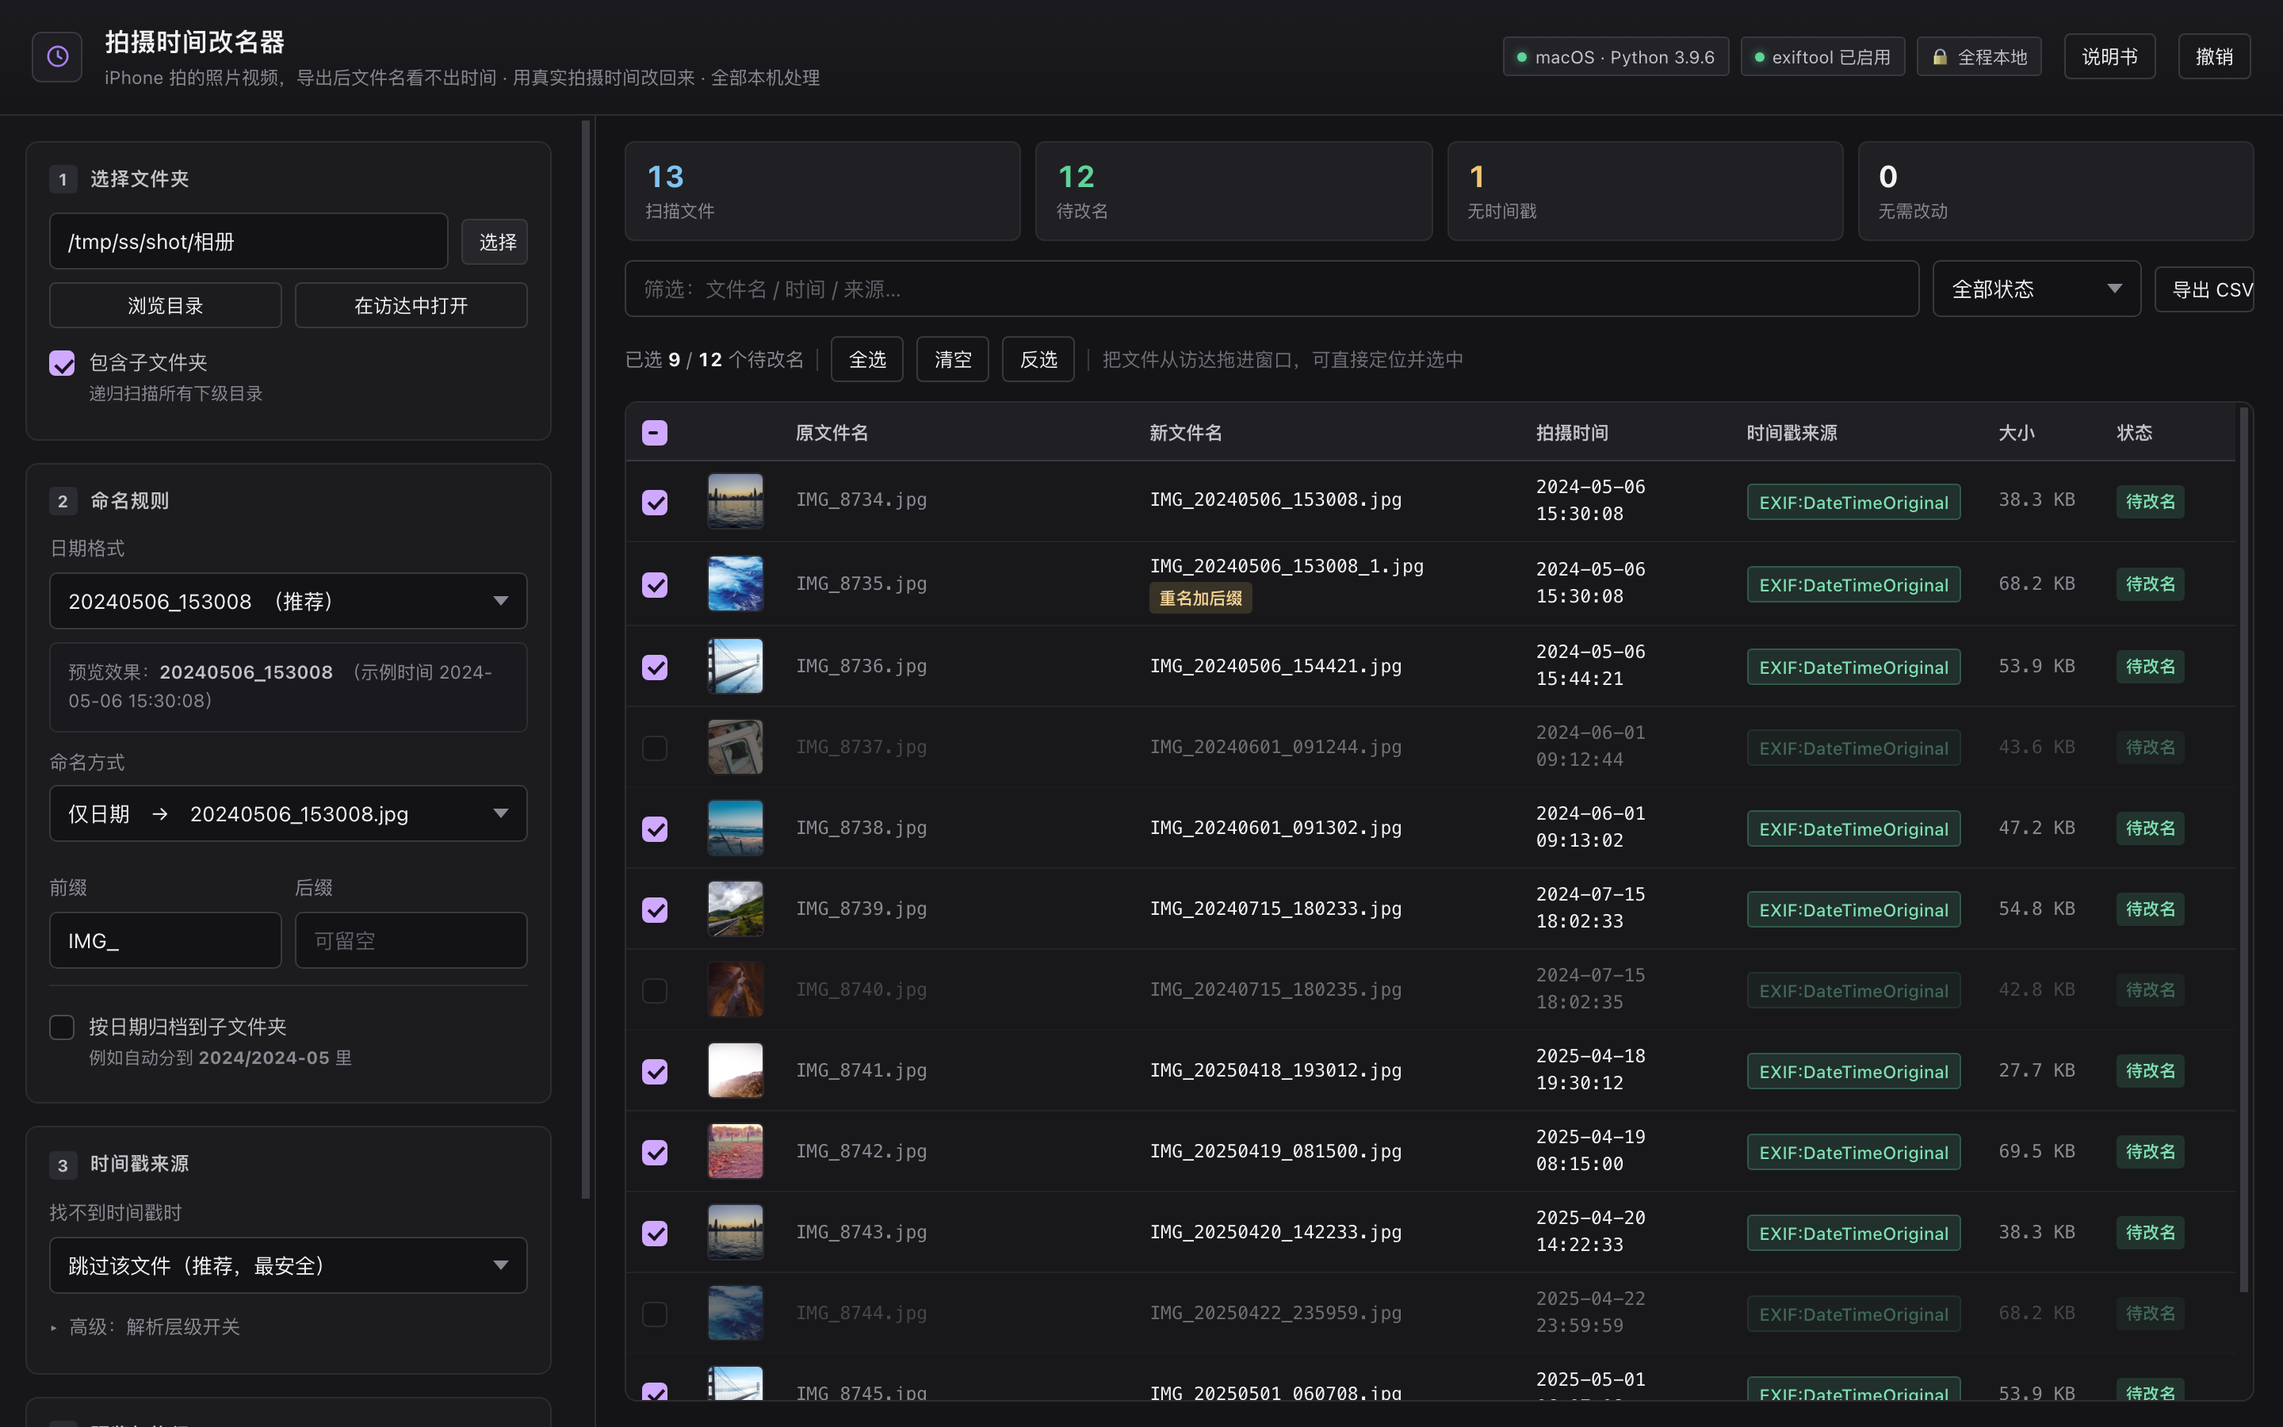
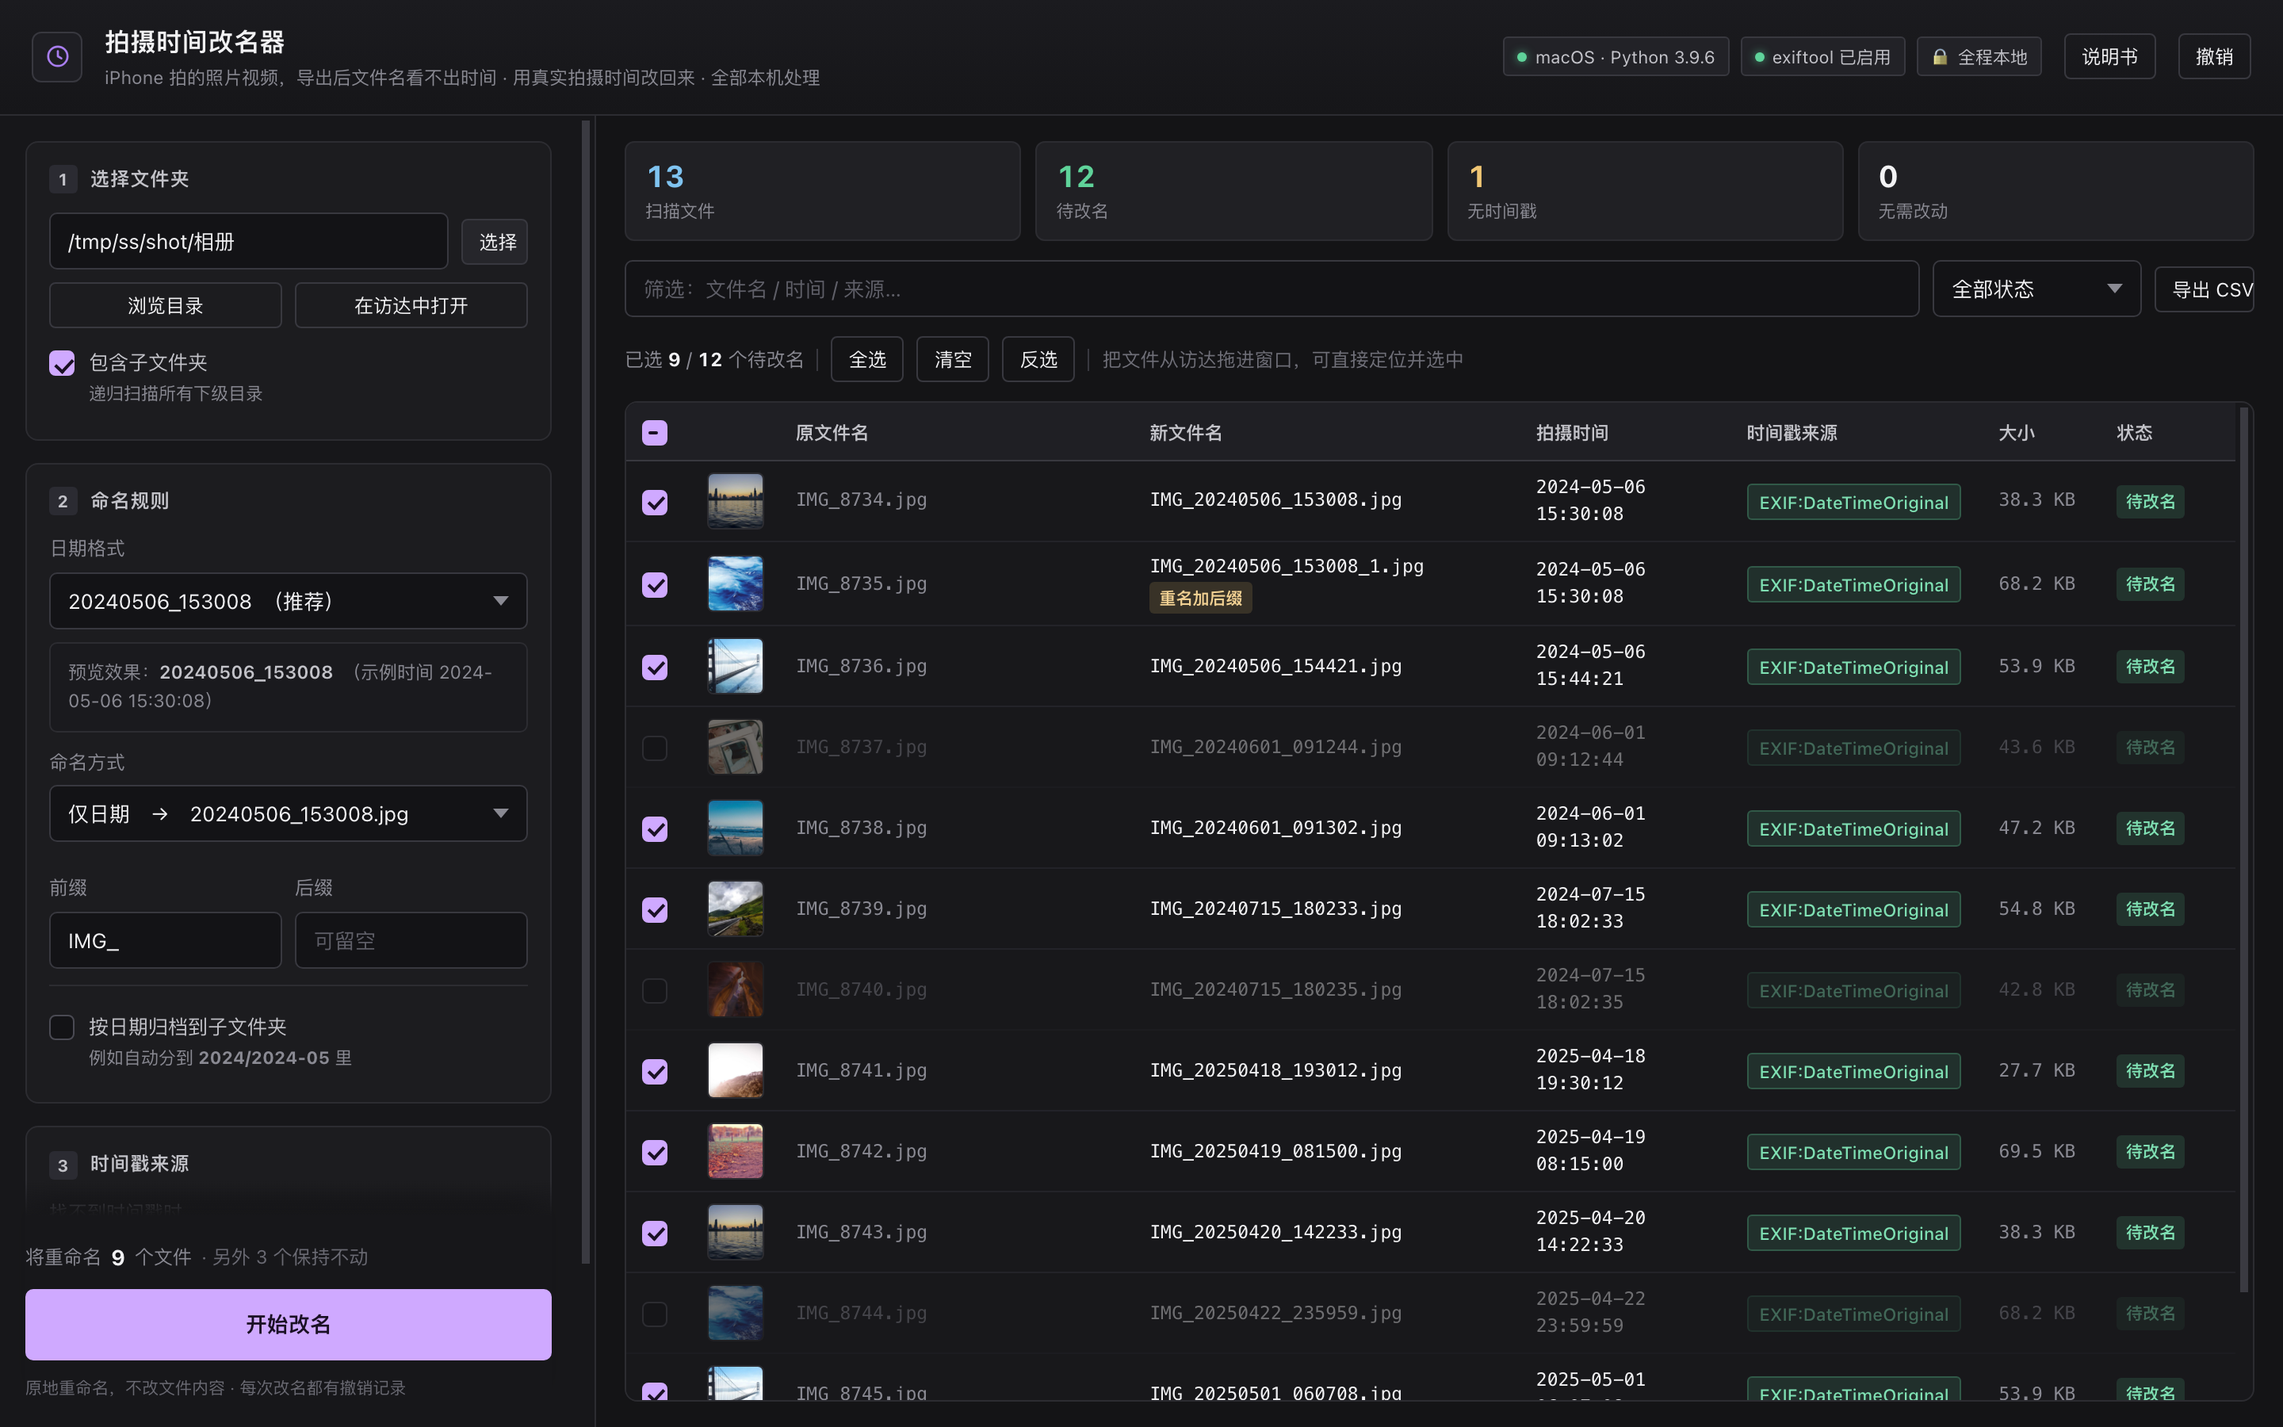
v1.2.1 · 执行区贴底固定 + macOS 改 dmg 分发
界面
- 「开始改名」原来在第 4 张卡里，配置项一多就得往下滚才找得到；
  改成贴住左栏底部的固定条，滚到哪儿都在
- 固定条上写「将重命名 N 个文件 · 另外 M 个保持不动」，不用回头看表格
- 上方 22px 渐变过渡，不用横线把卡片切成两截

打包
- build_app.command 增加 dmg 产出：App + 指向 /Applications 的软链 + 首次打开说明，
  UDZO 压缩后ad-hoc 签名。双击挂载、拖一下就装好，比解压 zip 顺手
- CI 的 macOS 岗位改为直接调用打包脚本，不再另抄一份 PyInstaller 参数。
  上一版就是因为两份逻辑漂移：本地修了 Info.plist 版本号，CI 那份没跟着改，
  发出去的 .app 在「显示简介」里还是 0.0.0
- Release 同时提供 dmg / zip，dmg 为主

其它
- VERSION 1.2.1；README（中英）/ RELEASE_NOTES / CHANGELOG 同步
- CI 步骤名里的自检数量 49 → 55
- README 主图重拍（底部固定条 + 9/12 选中态）

Changed region(s): [[0.0, 0.84, 0.25, 0.9956], [0.25, 0.84, 0.2812, 0.8711]]

diff --git a/src/static/index.html b/src/static/index.html
@@ -78,6 +78,28 @@ main{flex:1;display:grid;grid-template-columns:376px 1fr;overflow:hidden}
 aside{border-right:1px solid var(--line);overflow-y:auto;padding:16px;display:flex;flex-direction:column;gap:14px;background:#17171a}
 section.stage{display:flex;flex-direction:column;overflow:hidden;padding:16px 18px;gap:12px}
 
+/* 执行区：贴住左栏底部，滚到任何位置都看得见。
+   以前它在第 4 张卡里，配着配着就滚出视野了，得往回找。 */
+.dock{
+  position:sticky;bottom:-16px;margin:auto 0 -16px;
+  padding:16px 0 16px;background:#17171a;z-index:6;
+  /* 不用 border-top：一条横线会把下面的卡片切成两截，看着像坏了。
+     上面留一段背景色渐隐 + 阴影，滚动时自然浮起。 */
+  box-shadow:0 -16px 16px -12px rgba(0,0,0,.75);
+}
+/* 上方 22px 渐变，让滚上来的卡片内容是「渐隐消失」而不是被一刀切断 */
+.dock::before{
+  content:"";position:absolute;left:0;right:0;top:-22px;height:22px;pointer-events:none;
+  background:linear-gradient(180deg, rgba(23,23,26,0), #17171a);
+}
+.dock-info{font-size:12px;color:var(--fg3);margin-bottom:9px;
+  display:flex;align-items:center;gap:6px;font-variant-numeric:tabular-nums}
+.dock-info b{color:var(--fg);font-size:13.5px}
+.dock-info.warn{color:#f0c674}
+.dock .btnbar{display:flex;gap:8px}
+.dock .btnbar .primary{flex:1}
+.dock-note{font-size:10.5px;color:#6a6a73;margin-top:9px;line-height:1.6}
+
 .card{background:var(--panel);border:1px solid var(--line);border-radius:var(--radius);padding:14px}
 .card>h2{font-size:12px;font-weight:700;color:var(--fg2);letter-spacing:.6px;margin-bottom:12px;
   display:flex;align-items:center;gap:8px;text-transform:uppercase}
@@ -248,6 +270,8 @@ details.adv summary:hover{color:var(--accent)}
 @media (max-width:1080px){
   main{grid-template-columns:1fr;grid-template-rows:auto 1fr}
   aside{max-height:44vh;border-right:none;border-bottom:1px solid var(--line)}
+  .dock{padding:10px 0 12px}
+  .dock-note{display:none}
 }
 </style>
 </head>
@@ -350,16 +374,15 @@ details.adv summary:hover{color:var(--accent)}
       </details>
     </div>
 
-    <!-- 4 执行 -->
-    <div class="card">
-      <h2><span class="n">4</span>预览与执行</h2>
+    <!-- 执行区挪到 aside 末尾，用 CSS 贴底固定（见 .dock），
+         配置项再多也不会把按钮挤到看不见的地方 -->
+    <div class="dock">
+      <div class="dock-info" id="dockInfo">先选一个文件夹</div>
       <div class="btnbar">
         <button class="primary" id="btnRename" onclick="askRename()" disabled>开始改名</button>
         <button id="btnCancel" onclick="cancelScan()" style="display:none">停止</button>
       </div>
-      <div class="note" style="margin-top:10px">
-        改名是<b>原地重命名</b>，不复制文件、不损失画质。每次改名都会生成一份可撤销记录。
-      </div>
+      <div class="dock-note">原地重命名，不改文件内容 · 每次改名都有撤销记录</div>
     </div>
   </aside>
 
@@ -771,6 +794,29 @@ function updateSelUI(){
   box.indeterminate = visSel > 0 && visSel < vis.length;
   box.disabled = vis.length === 0;
   $('btnRename').disabled = S.busy || n === 0;
+  updateDock(all, n);
+}
+
+// 底部固定条上的一行字：直说「点下去会发生什么」，不用回头看表格
+function updateDock(all, n){
+  const di = $('dockInfo');
+  if(!di) return;
+  di.classList.remove('warn');
+  if(S.busy){
+    // 扫描时 plan 是空的；plan 有值还 busy，说明正在改名
+    di.textContent = S.plan.length ? '正在改名，别关窗口…' : '正在扫描…';
+    return;
+  }
+  if(!S.plan.length){ di.textContent = '先选一个文件夹'; return; }
+  if(!all){ di.textContent = '这批文件里没有可改名的'; return; }
+  if(!n){
+    di.classList.add('warn');
+    di.innerHTML = '还没有勾选任何文件';
+    return;
+  }
+  const rest = all - n;
+  di.innerHTML = `将重命名 <b>${n}</b> 个文件` +
+    (rest ? `<span style="color:#6a6a73">· 另外 ${rest} 个保持不动</span>` : '');
 }
 
 function applySel(cb){

diff --git a/src/server.py b/src/server.py
@@ -214,7 +214,7 @@ from media_time import (  # noqa: E402
 
 APP_TITLE = "拍摄时间改名器"
 APP_NAME_EN = "ShutterSort"
-VERSION = "1.2.0"
+VERSION = "1.2.1"
 
 # 由 app_main.py 注入：App 模式下用原生窗口关闭程序 / 弹系统选择框
 QUIT_HOOK: Optional[Callable[[], None]] = None

diff --git a/packaging/ci/RELEASE_NOTES.md b/packaging/ci/RELEASE_NOTES.md
@@ -1,21 +1,19 @@
-## 拍摄时间改名器 v1.2.0
+## 拍摄时间改名器 v1.2.1
 
 把 iPhone 拍的照片、视频的**真实拍摄时间**写回文件名 ——
 读的是文件里内嵌的 EXIF / 视频容器元数据，原地重命名，让文件夹自动按时间排序。
 全程在本机处理，不联网、不上传任何数据。
 
-### 这一版新增
+### 这一版
 
-- **挑着改**：每行前面多了勾选框，勾了谁才改谁，没勾的原封不动
-  - 扫描完默认全选，想全改就直接点「开始改名」，跟以前一样
-  - 工具条实时显示「已选 N / M 个待改名」，配 **全选 / 清空 / 反选** 三个按钮
-  - 全选和反选只作用于**当前筛选出来的行**，筛完再全选不会误伤看不见的文件
-  - 表头复选框三态（全选 / 半选 / 全不选），作用范围同样跟随筛选
-  - 未勾选的行整行压暗，一眼看出哪些不动
-- **拖进来就选中**：从访达／资源管理器把文件拖进窗口，出现热区提示，松手即按文件名匹配勾选；
-  同名文件用字节大小二次区分。匹配不到会明确提示，不静默失败
-- **界面去 AI 味**：圆角从「到处 16px」收到 8/10/5/3 四档，滚动条 6px → 3px，
-  缩略图 40px → 36px，弹窗阴影收敛；左上角 logo 从紫色渐变块换成中性底 + 线条时钟
+- **macOS 改用 dmg 分发**：双击挂载，把 `ShutterSort.app` 拖到旁边的「应用程序」
+  就装好了，不用先解压再翻 `.app`。zip 作为备用仍然保留
+- **「开始改名」不再被挤出视野**：执行区改成贴住左栏底部的固定条，滚到哪儿都在，
+  上面直接写着「将重命名 12 个文件 · 另外 0 个保持不动」
+- **修 macOS 包版本号**：之前 `.app` 在「显示简介」里永远是 0.0.0，现在与程序版本一致
+
+上一版（v1.2.0）的功能：勾选改名（勾了谁才改谁，全选 / 清空 / 反选，表头三态）、
+拖拽进窗口定位选中、圆角收敛去 AI 味。
 
 ### 修复
 
@@ -27,7 +25,8 @@
 | 平台 | 附件 | 怎么用 |
 | --- | --- | --- |
 | **Windows** 10/11 64 位 | `ShutterSort.exe` | 下载后双击即用。免安装、不需要装 Python |
-| **macOS** Apple 芯片（M1–M4） | `ShutterSort-macOS-arm64.zip` | 解压 → 把 `ShutterSort.app` 拖进「应用程序」→ 双击 |
+| **macOS** Apple 芯片（M1–M4） | `ShutterSort-macOS-arm64.dmg` | 双击挂载 → 把 App 拖到旁边的「应用程序」→ 双击 |
+| **macOS** 同上（备用） | `ShutterSort-macOS-arm64.zip` | 不方便挂载磁盘映像时用：解压后把 App 拖进「应用程序」 |
 | **macOS** Intel 芯片 | 没有现成包 | 用下面的源码方式，双击 `start.command` |
 | **Linux** | 没有现成包 | 用下面的源码方式，双击 `start.command`，或 `python3 src/server.py` |
 

diff --git a/README.en.md b/README.en.md
@@ -110,14 +110,16 @@ the `.app` on real Windows and macOS runners and attaches them to the release.)
 
 **Option 1 — grab the prebuilt `.app` (easiest, Apple silicon only)**
 
-Download `ShutterSort-macOS-arm64.zip` from [Releases](https://github.com/js-ping/shuttersort/releases),
-unzip it and drag `ShutterSort.app` into `/Applications`. No Python needed.
+Download `ShutterSort-macOS-arm64.dmg` from [Releases](https://github.com/js-ping/shuttersort/releases),
+double-click to mount, then drag the app onto the `Applications` shortcut. No Python needed.
+
+A `.zip` is published alongside it for environments where mounting a disk image is not an option.
 
 Supports M1 / M2 / M3 / M4, macOS 11+. **Intel Macs can't run this build** — use Option 2.
 
 > If macOS says *"Apple cannot check it for malicious software"*: **right-click the app → Open → Open**.
 > That's a one-time approval. Or run `xattr -dr com.apple.quarantine /Applications/ShutterSort.app`.
-> It's the normal cost of not buying an Apple Developer certificate; the zip ships with a note explaining this.
+> It's the normal cost of not buying an Apple Developer certificate; the dmg and zip both ship with a note explaining this.
 
 **Option 2 — run from source**
 
@@ -229,8 +231,8 @@ ShutterSort/
 │   └── static/index.html      ← UI (single file, no build step)
 ├── tests/selftest.py          ← 55 regression checks
 ├── packaging/                 ← build scripts + icons (make_ico.py writes the .ico)
-│   ├── build_app.command      ← builds the macOS .app + a shippable zip
-│   ├── mac/FIRST-RUN.txt      ← the "first launch" note packed into the zip
+│   ├── build_app.command      ← builds the macOS .app + dmg + zip
+│   ├── mac/FIRST-RUN.txt      ← the "first launch" note packed into the dmg/zip
 │   └── ci/RELEASE_NOTES.md    ← release body (edit this one before a release)
 ├── .github/workflows/         ← tag a release → exe + .app built and attached
 └── rename-history/            ← created at runtime: undo records (don't delete)

diff --git a/README.md b/README.md
@@ -129,15 +129,17 @@ GitHub 就会开真实的 Windows 和 macOS 机器各打一份，自动挂到对
 
 **方式一：下载打包好的 .app（最省事，仅 Apple 芯片）**
 
-到 [Releases](https://github.com/js-ping/shuttersort/releases) 下载 `ShutterSort-macOS-arm64.zip`，
-解压后把 `ShutterSort.app` 拖进「应用程序」即可。单文件、不需要装 Python。
+到 [Releases](https://github.com/js-ping/shuttersort/releases) 下载 `ShutterSort-macOS-arm64.dmg`，
+双击挂载后把 App 拖到旁边的「应用程序」就装好了。单文件、不需要装 Python。
+
+不想挂载磁盘映像的话，同一个 Release 里也有 `.zip` 版本，解压后同样拖进「应用程序」。
 
 支持 M1 / M2 / M3 / M4，系统要求 macOS 11+。**Intel 芯片的 Mac 用不了这个包**，走下面的方式二。
 
 > 第一次打开如果提示「无法打开，因为 Apple 无法验证此 App」：
 > 在访达里**右键点 App → 选「打开」→ 再点「打开」**就放行了，只需一次。  
 > 或者跑 `xattr -dr com.apple.quarantine /Applications/ShutterSort.app`。  
-> 这是没买苹果开发者签名的正常现象，压缩包里也附了一份说明。
+> 这是没买苹果开发者签名的正常现象，dmg 和 zip 里都附了一份说明。
 
 **方式二：从源码跑**
 
@@ -158,8 +160,9 @@ python3 -m pip install pyinstaller pywebview   # 只需一次
 cd packaging && ./build_app.command
 ```
 
-跑完会得到两个东西：`packaging/dist/ShutterSort.app`，以及可以直接发给别人的
-`packaging/dist/ShutterSort-macOS-arm64.zip`（里面带首次打开说明）。
+跑完会得到三样：`packaging/dist/ShutterSort.app`，可以直接发给别人的
+`packaging/dist/ShutterSort-macOS-arm64.dmg`（挂载即拖），以及备用的
+`packaging/dist/ShutterSort-macOS-arm64.zip`。三种都带首次打开说明。
 
 ### Linux
 

diff --git a/CHANGELOG.md b/CHANGELOG.md
@@ -2,6 +2,33 @@
 
 本项目的版本号遵循 [语义化版本](https://semver.org/lang/zh-CN/)。
 
+## 1.2.1 — 2026-10-21
+
+### 新增：macOS 分发改用 dmg
+
+- Release 上的 macOS 包现在提供 `ShutterSort-macOS-arm64.dmg`：双击挂载，
+  把 App 拖到旁边的「应用程序」就装好了，不用先解压再找 `.app`
+- dmg 里放了指向 `/Applications` 的软链和《首次打开说明》，挂载即可拖
+- zip 仍然保留作为备用（有些环境不允许挂载磁盘映像）
+- dmg 本身也做了 ad-hoc 签名
+
+### 修复：「开始改名」按钮会被挤出视野
+
+- 执行区原来是左侧栏的第 4 张卡片，配置项一多就得往下滚才能找到按钮
+- 现在改成**贴住左栏底部的固定条**：滚到哪儿都在，并顺带写清
+  「将重命名 12 个文件 · 另外 0 个保持不动」，不用回头看表格
+- 固定条上方用 22px 渐变过渡，而不是一条横线把卡片切成两截
+
+### 修复：macOS 包的版本号一直是 0.0.0
+
+- 上一版只改了本地 `build_app.command`，而 CI 里另抄了一份 PyInstaller 命令，
+  两份逻辑漂移，发出去的 `.app` 在「显示简介」里仍然显示 0.0.0
+- 现在 CI 的 macOS 岗位直接调用打包脚本，不再维护第二份参数
+
+### 其它
+
+- 自检数量文案（README / CI 步骤名）从 49 更新为 55
+
 ## 1.2.0 — 2026-10-21
 
 **改成「挑着改」了。** 以前一扫描就是整个文件夹全改，现在每一行前面多了个勾选框，
